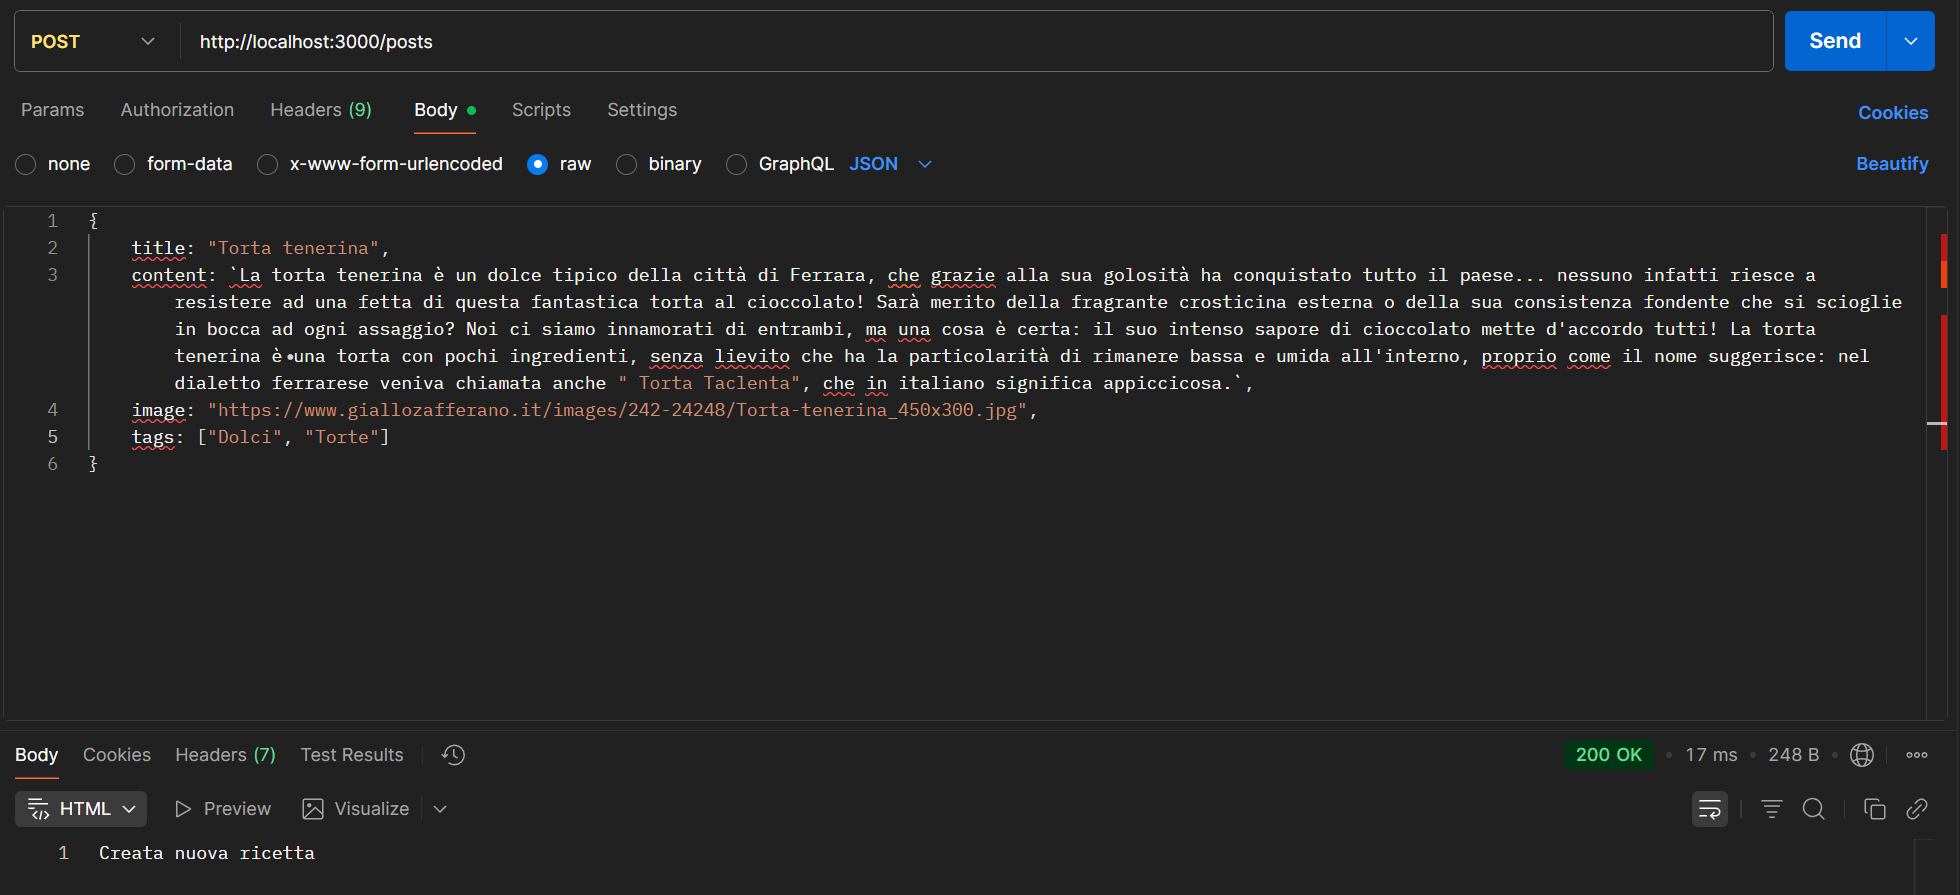
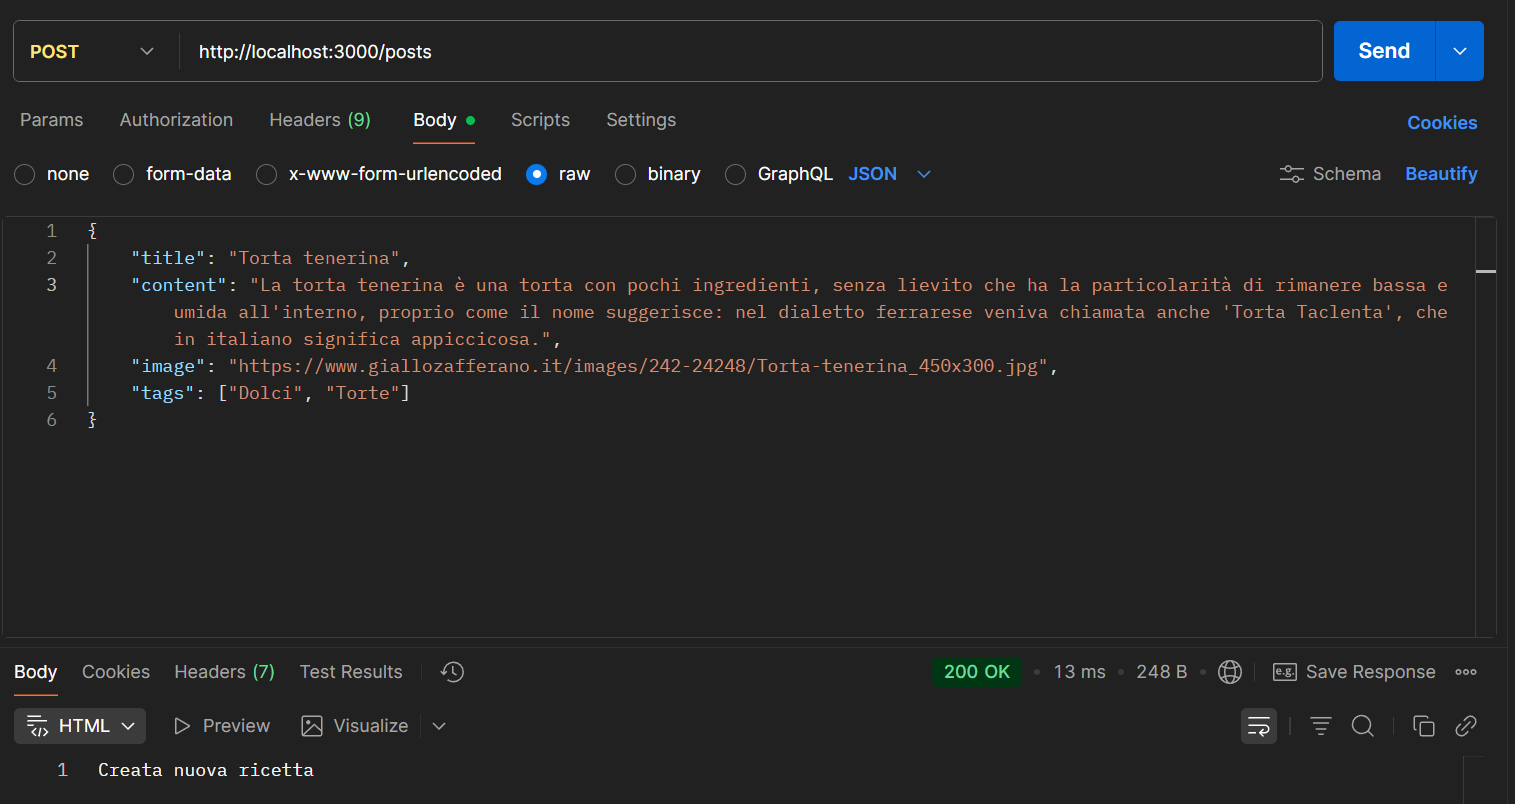
Milestone 2 completato: - Impostato body-parser in app.js per consentire la decodifica del request body - Aggiunto console.log nella rotta Store per stampare i dati ricevuti dal body - Aggiornato screenshot Postman con body JSON corretto per la richiesta POST

diff --git a/app.js b/app.js
@@ -10,14 +10,15 @@ const postsRouter = require('./routers/postsRouter')    // Import del router che
 /***************************
     CONFIGURAZIONE EXPRESS
 ****************************/
-const app = express()            // Inizializzazione dell'app Express
+const app = express();           // Inizializzazione dell'app Express
 const port = 3000;               // Definizione della porta su cui il server deve rimanere in ascolto
 
 
-/************
-    ROUTER
-************/
-app.use('/posts', postsRouter)  // Registrazione del router con prefisso /posts 
+/***************
+    MIDDLEWARE
+****************/
+app.use(express.json());          // Registrazione body-parser per "application/json"
+app.use('/posts', postsRouter);   // Registrazione del router con prefisso /posts 
 
 
 /*********************

diff --git a/controllers/postController.js b/controllers/postController.js
@@ -54,6 +54,7 @@ function show(req, res) {
 
 // store - crea una nuova ricetta
 function store(req, res) {
+    console.log(req.body);             // Stampa nel terminale il corpo della richiesta in arrivo dal client
     res.send("Creata nuova ricetta");
 }
 
